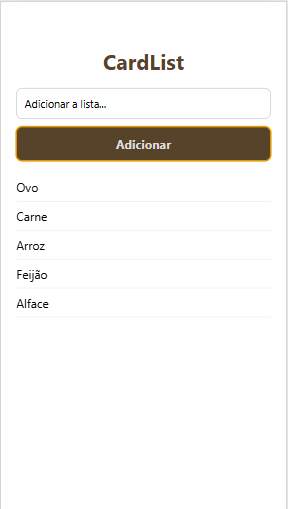
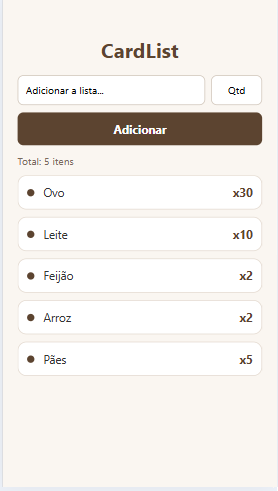
Improve mobile shopping list layout

diff --git a/App.js b/App.js
@@ -1,47 +1,73 @@
-import { useState } from 'react';
+import { useState, useEffect } from 'react';
 import {
   View,
   Text,
   TextInput,
+  TouchableOpacity,
   FlatList,
   StyleSheet,
-  TouchableOpacity,
 } from 'react-native';
+import { ItemCompra } from './ItemCompra';
 
 export default function App() {
-  const [texto, setTexto] = useState('');
+  const [nome, setNome] = useState('');
+  const [quantidade, setQuantidade] = useState('');
   const [itens, setItens] = useState([]);
 
-  function adicionarItem() {
-    const nome = texto.trim();
-    if (nome === '') return;
+  // Aula 8: roda toda vez que a lista (itens) muda
+  useEffect(() => {
+    console.log('A lista mudou. Total de itens:', itens.length);
+  }, [itens]);
 
-    const novoItem = { id: Date.now().toString(), nome };
-    setItens([...itens, novoItem]);
-    setTexto('');
+  function adicionarItem() {
+    const nomeLimpo = nome.trim();
+    if (nomeLimpo === '') return; // não adiciona item vazio
+
+    const novoItem = {
+      id: Date.now().toString(),
+      nome: nomeLimpo,
+      quantidade: quantidade.trim() === '' ? '1' : quantidade.trim(),
+    };
+
+    setItens([...itens, novoItem]); // spread, sem .push()
+    setNome('');
+    setQuantidade('');
   }
 
   return (
     <View style={styles.container}>
       <Text style={styles.titulo}>CardList</Text>
 
-      <TextInput
-        style={styles.input}
-        placeholder="Adicionar a lista..."
-        value={texto}
-        onChangeText={setTexto}
-      />
+      {/* Flexbox em linha (Aula 4): campo, quantidade e botão lado a lado */}
+      <View style={styles.linha}>
+        <TextInput
+          style={[styles.input, styles.inputNome]}
+          placeholder="Adicionar a lista..."
+          value={nome}
+          onChangeText={setNome}
+        />
+        <TextInput
+          style={[styles.input, styles.inputQuantidade]}
+          placeholder="Qtd"
+          value={quantidade}
+          onChangeText={setQuantidade}
+          keyboardType="numeric"
+        />
+      </View>
 
       <TouchableOpacity style={styles.botao} onPress={adicionarItem}>
         <Text style={styles.textoBotao}>Adicionar</Text>
       </TouchableOpacity>
 
+      <Text style={styles.total}>
+        Total: {itens.length} {itens.length === 1 ? 'item' : 'itens'}
+      </Text>
+
       <FlatList
-        style={styles.lista}
         data={itens}
         keyExtractor={(item) => item.id}
         renderItem={({ item }) => (
-          <Text style={styles.item}>{item.nome}</Text>
+          <ItemCompra nome={item.nome} quantidade={item.quantidade} />
         )}
       />
     </View>
@@ -49,37 +75,48 @@ export default function App() {
 }
 
 const styles = StyleSheet.create({
-  container: { flex: 1, padding: 20, marginTop: 40, backgroundColor: '#fff' },
+  container: {
+    flex: 1,
+    width: '100%',
+    boxSizing: 'border-box',
+    padding: 20,
+    paddingTop: 50,
+    backgroundColor: '#faf6f1',
+  },
   titulo: {
     fontSize: 28,
     fontWeight: 'bold',
-    marginBottom: 16,
+    color: '#5c4430',
     textAlign: 'center',
-    color: '#57422a',
+    marginBottom: 16,
+  },
+  linha: {
+    flexDirection: 'row',
+    alignItems: 'center',
+    marginBottom: 10,
+    width: '100%',
   },
   input: {
     borderWidth: 1,
-    borderColor: '#ccc',
+    borderColor: '#cfc4b8',
     borderRadius: 8,
     padding: 10,
-    marginBottom: 10,
+    backgroundColor: '#fff',
   },
-  lista: { marginTop: 16 },
-  item: {
-    fontSize: 16,
-    paddingVertical: 8,
-    borderBottomWidth: 1,
-    borderBottomColor: '#eee',
-  },
+  inputNome: { flex: 1, minWidth: 0, marginRight: 8 },
+  inputQuantidade: { width: 70, flexShrink: 0, textAlign: 'center' },
   botao: {
-    backgroundColor: '#57422a',
+    backgroundColor: '#5c4430',
+    width: '100%',
     padding: 12,
     borderRadius: 8,
     alignItems: 'center',
+    marginBottom: 12,
   },
-  textoBotao: {
-    color: '#ddd',
-    fontSize: 16,
-    fontWeight: 'bold',
+  textoBotao: { color: '#fff', fontSize: 16, fontWeight: 'bold' },
+  total: {
+    fontSize: 14,
+    color: '#7a6a5b',
+    marginBottom: 10,
   },
 });

diff --git a/ItemCompra.jsx b/ItemCompra.jsx
@@ -1,0 +1,34 @@
+import { View, Text, StyleSheet } from 'react-native';
+
+// Componente reutilizável (Aula 3) com Flexbox em linha (Aula 4)
+export function ItemCompra({ nome, quantidade }) {
+  return (
+    <View style={styles.item}>
+      <View style={styles.bolinha} />
+      <Text style={styles.nome}>{nome}</Text>
+      <Text style={styles.quantidade}>x{quantidade}</Text>
+    </View>
+  );
+}
+
+const styles = StyleSheet.create({
+  item: {
+    flexDirection: 'row',
+    alignItems: 'center',
+    backgroundColor: '#fff',
+    borderWidth: 1,
+    borderColor: '#e3d9cf',
+    borderRadius: 12,
+    padding: 12,
+    marginBottom: 10,
+  },
+  bolinha: {
+    width: 10,
+    height: 10,
+    borderRadius: 5,
+    backgroundColor: '#5c4430',
+    marginRight: 12,
+  },
+  nome: { flex: 1, fontSize: 16, color: '#333' },
+  quantidade: { fontSize: 16, fontWeight: 'bold', color: '#5c4430' },
+});
